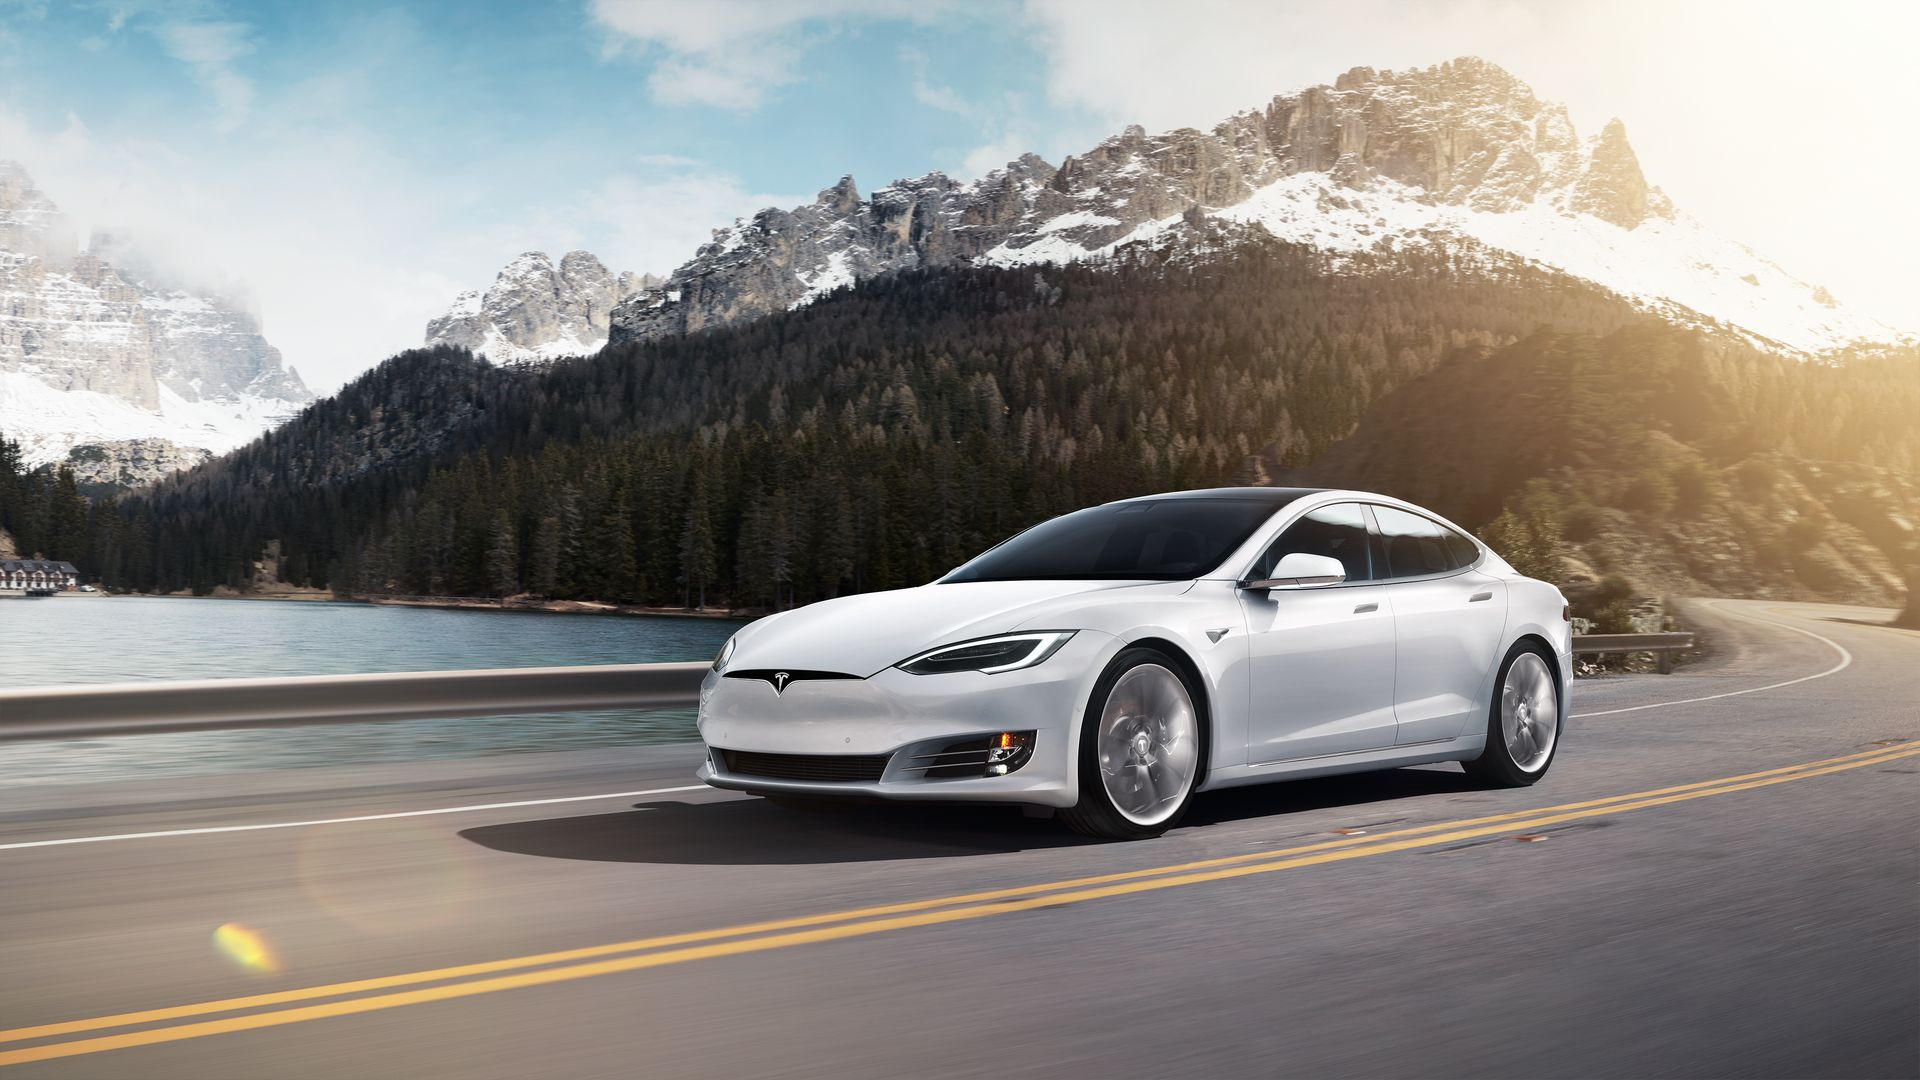
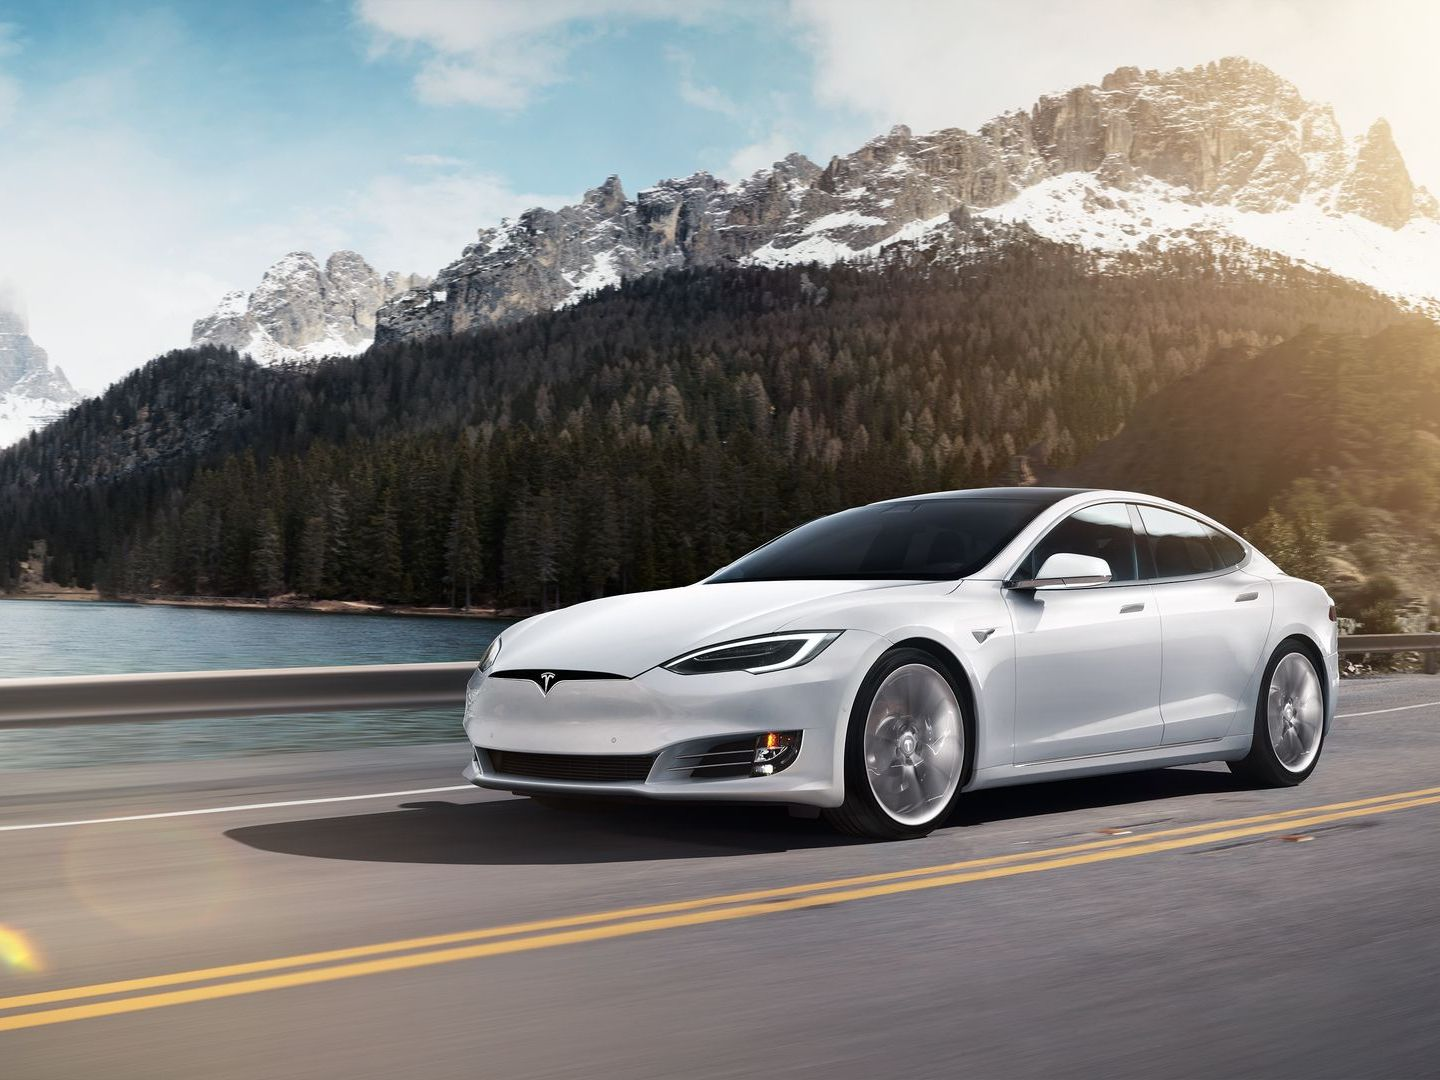
CarThumb changes

diff --git a/src/styles/CarThumb.scss b/src/styles/CarThumb.scss
@@ -1,15 +1,21 @@
 .car-thumb {
-  margin-bottom: 1rem;
-    border: 1px solid #dedede;
-    border-radius: 2px;
-    background: #f9f9f9;
-    padding: .5rem;
-  img {
+  border: 1px solid #adadad;
+  border-radius: 3px;
+  background: #f9f9f9;
+  overflow: hidden;
+  box-shadow: 0px 0px 3px #e2e2e2;
+
+  .img-wrap {
+    overflow: hidden;
     width: 100%;
+    margin: 0;
+
+    img {
+      width: 100%;
+    }
   }
 
   .text {
-    padding-top: .5rem;
     text-align: center;
 
     .price {

diff --git a/src/components/CarThumb.js b/src/components/CarThumb.js
@@ -4,7 +4,9 @@ export default class CarThumb extends React.Component {
   render() {
     return (
       <article className="car-thumb">
-        <img src="./img/dummy.jpg" alt="car" />
+        <figure className="img-wrap">
+          <img src="./img/dummy.jpg" alt="car" />
+        </figure>
         <div className="text">
           <header>Car name</header>
           <span className="price">10€</span>
